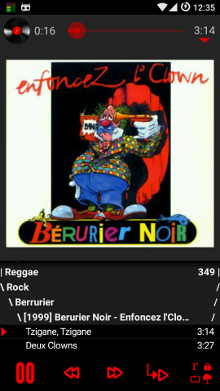
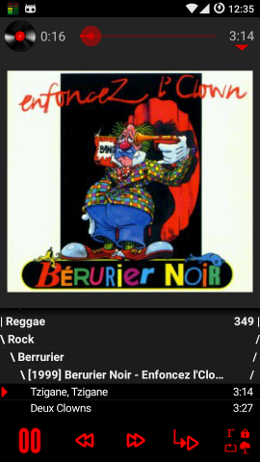
Update readme and screenshots

diff --git a/Screenshots.md b/Screenshots.md
@@ -1,2 +1,2 @@
-![Seek menu](misc/screenshots/screen4.3_seek.png)
+![Seek menu](misc/screenshots/screen4.3_seek_resized.png)
 
